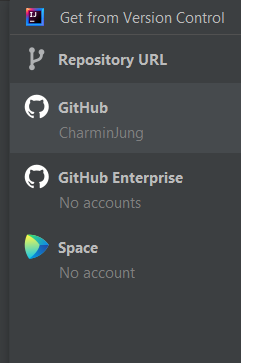
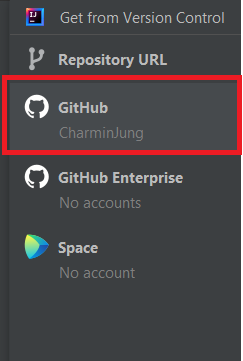
Combined partner changes

diff --git a/User-Guide/docs/Cloning_a_GitHub_project.md b/User-Guide/docs/Cloning_a_GitHub_project.md
@@ -1,0 +1,82 @@
+# Cloning a GitHub project to your IDE
+
+## Overview
+
+This part of the guide will walk you through how to clone an existing GitHub project into your IDE. This will give you the opportunity to ensure that your IDE projects are connected and saved in one spot. To follow the steps in this guide you will need a GitHub account to be linked to your JetBrains IDE.  
+
+### Goals
+
+By the end of this guide you will have cloned an Existing Github Project into your IDE. This skill works with any existing github projects which is necessary.
+
+### &emsp; Prerequisites
+
+Prior to connecting your account to your JetBrains IDE you will need:  
+
+* **A GitHub account**
+* **A JetBrains IDE (Intellij, CLion, Pycharm, etc.)**
+* **Your GitHub account to be connected to your JetBrains IDE**
+
+## Cloning a Project into IDE
+
+1. ℹ  Click on the VCS button on the top menu
+
+    ![JetBrains](img/Clone1.png)
+
+    ✅ A menu should now appear providing you a list of option
+
+    ![JetBrains](img/Clone6.png)
+
+2. ℹ  Click on the Get from Version Control option on the menu
+
+    ![JetBrains](img/Clone2.png)
+
+    ✅ A new window should now appear. Here you have the ability to access Repository URL, GitHub, GitHub Enterprise and Space. We want to access Github
+
+    ![JetBrains](img/Clone7.png)
+
+3. ℹ  Click on the Github button on the side menu
+
+    ![JetBrains](img/Clone4.png)
+
+    ✅ A list of existing and new projects should appear. This is a collection of all your remote repositories on Github.
+
+    ![JetBrains](img/Clone8.png)
+
+4. ℹ  Click on any of the existing projects that is displayed in the list of projects
+
+    ![JetBrains](img/Clone3.png)
+
+    !!! alert
+        &emsp;**If you cannot see any projects avaible then you have to log in and follow step 5 under the Title "Connect IDE to GitHub account".**
+
+        ![Search "Version Control"](/docs/img/linking%2011.png) 
+
+        Direct to (Connecting to GitHub.md) for more help
+
+    ✅ Now you have the repo selected, you need to clone it to completely access it on your IDE
+
+5. ℹ  Click on the Clone button (bottom right corner)
+
+    ![JetBrains](img/Clone5.png)
+
+    ✅ Now another new window will appear to ask you to trust the file. We want to completely clone it on your IDE.
+
+    ![JetBrains](img/Clone9.png)
+
+6. Click on Trust Project to proceed
+
+    ![JetBrains](img/Clone10.png)
+
+    ✅ Now the final window will appear giving you three options. They are "This Window", "New Window" and "Cancel".
+
+    ![JetBrains](img/Clone11.png)
+
+7. Click on the button, "This Window" or "New Window" to completely clone your project into your IDE
+
+    ![JetBrains](img/Clone12.png)
+
+    ✅Now you have completed the process of cloning your project into your IDE.
+
+    ![JetBrains](img/Clone13.png)
+
+    👍 Congratulations! You just cloned a project and now you have the skills to do it in the future!

diff --git a/User-Guide/docs/Glossary.md b/User-Guide/docs/Glossary.md
@@ -1,0 +1,13 @@
+| Term | Definition | 
+| -------- | -------- | 
+| IDE |  IDE stands for Integrated development environment and it is a programming software to do programming projects and linking projects to Github | 
+| VCS |  VCS stands for Version Control system that provides access to GitHub and link the IDE and Github accountss | 
+| JetBrains | Defined as a Software company, that creates tools and IDEs for people including students  | 
+| Project | A GitHub assignment that a group of people or individuals can work on  | 
+| GitHub | A software website that allows people and students to store projects and connect it with IDEs  | 
+| Repository| A specific storage location to store specific files related to a certain project | 
+| Version Control | A tool to help manage changes within the Github and IDEs  | 
+| GitHub Token | An alternative to help students or clients into signing in the GitHub accounts and connecting with IDEs  | 
+| Push | A Github command to allow user(s) to implement changes from local files into a remote stored files  | 
+| Commit | An individual's change that is made to a file or the entire project  | 
+| Clone | Defined when a person copies the entire gitHub project into their own personal working station. | 

diff --git a/User-Guide/docs/TroubleShooting.md b/User-Guide/docs/TroubleShooting.md
@@ -1,0 +1,5 @@
+| Errors | Problem Cause | Action |
+| -------- | -------- | -------- |
+|No gitHub connections | GitHub account is not properly connected to IDE | Connecting the GitHub to IDE by using email or token with the passwords. |
+|GitHub account already connected | GitHub account is being connected again when it is already connected  | Immediately cancel the process |
+|Cannot see Version control | The IDEs receieved new updates and changes | Type version control in the search bar to limit your options  |

diff --git a/User-Guide/docs/index.md b/User-Guide/docs/index.md
@@ -31,6 +31,7 @@ Please have the following requirements before reading the instructions:
 ## Warnings Messages
 
 Throughout the user guide documentation, we will include and utilize blocks of messages to inform you of any critical information.
+
 !!! alert
     Please read the alerts before proceeding onto the next step to avoid any mistakes
 
